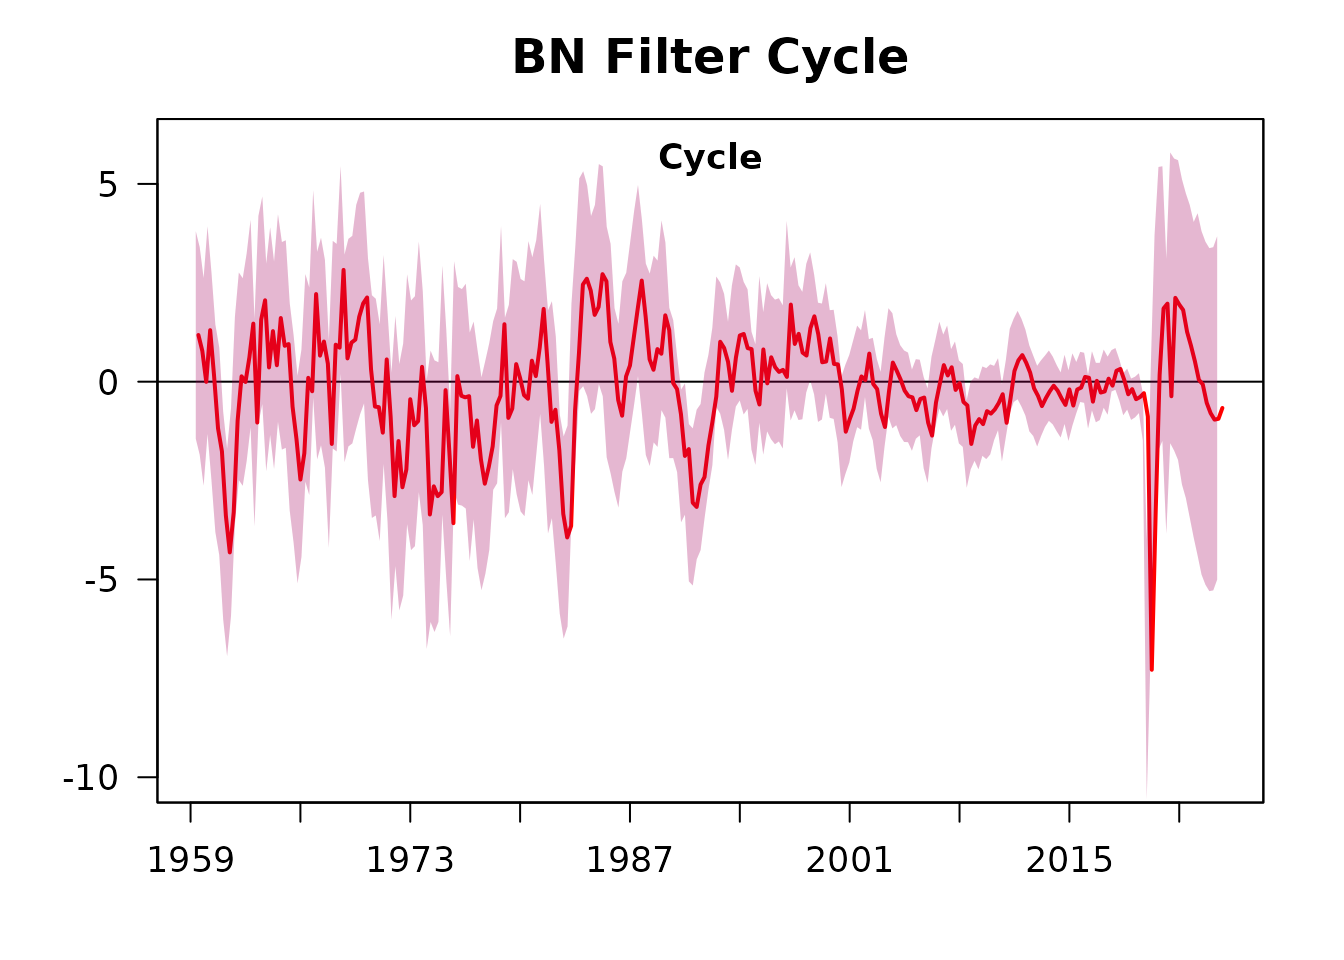
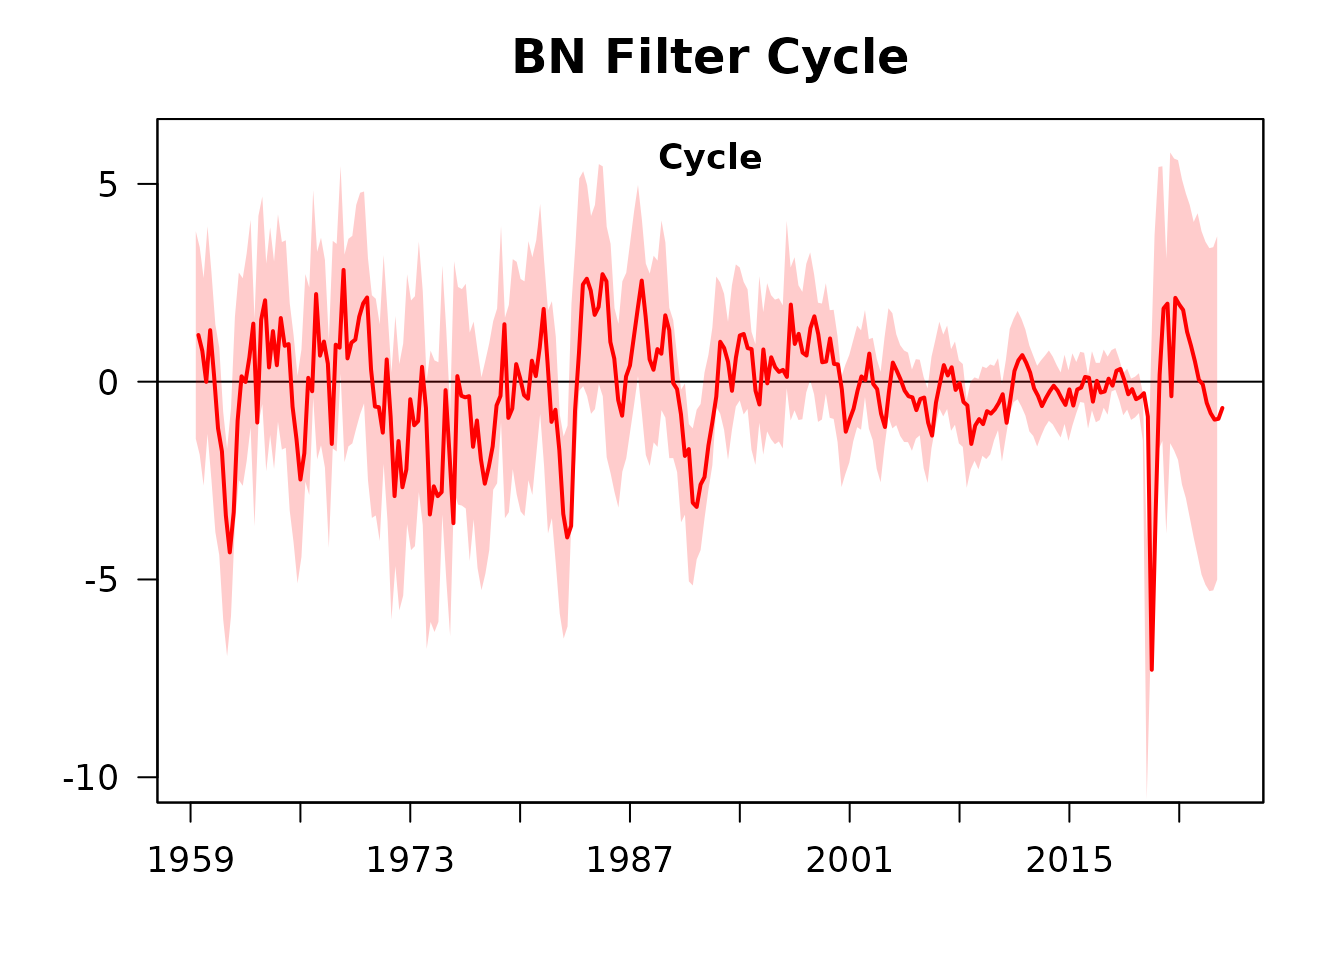
Deploying to gh-pages from @ kletts/bnfilter@9e066e45607ad2a09656d2ef6fafd3a0e7649de5 🚀

Changed region(s): [[0.125, 0.1562, 0.9062, 0.6875]]

diff --git a/articles/DNFilter-Australia.html b/articles/DNFilter-Australia.html
@@ -65,9 +65,18 @@
 
     
     
+<p>The package includes the latest Australian real/chain volume GDP and
+the Unemployment Rate through to December quarter 2024.</p>
 <div class="sourceCode" id="cb1"><pre class="downlit sourceCode r">
 <code class="sourceCode R"><span><span class="kw"><a href="https://rdrr.io/r/base/library.html" class="external-link">library</a></span><span class="op">(</span><span class="va"><a href="https://kletts.github.io/bnfilter/">bnfilter</a></span><span class="op">)</span></span>
-<span><span class="fu"><a href="https://rdrr.io/r/base/load.html" class="external-link">load</a></span><span class="op">(</span><span class="st">"../../data/audata.rda"</span><span class="op">)</span></span></code></pre></div>
+<span><span class="fu"><a href="https://rdrr.io/r/utils/head.html" class="external-link">tail</a></span><span class="op">(</span><span class="va">audata</span><span class="op">)</span></span>
+<span><span class="co">#&gt;           date   UNRATE  GDPC1</span></span>
+<span><span class="co">#&gt; 257 2023-09-01 3.603829 649635</span></span>
+<span><span class="co">#&gt; 258 2023-12-01 3.972668 650218</span></span>
+<span><span class="co">#&gt; 259 2024-03-01 3.861293 651335</span></span>
+<span><span class="co">#&gt; 260 2024-06-01 4.067915 652593</span></span>
+<span><span class="co">#&gt; 261 2024-09-01 4.073059 654676</span></span>
+<span><span class="co">#&gt; 262 2024-12-01 3.971081 658495</span></span></code></pre></div>
 <p>Load the GDP data from the package dataset</p>
 <div class="sourceCode" id="cb2"><pre class="downlit sourceCode r">
 <code class="sourceCode R"><span><span class="va">gdp</span> <span class="op">&lt;-</span> <span class="fu"><a href="https://rdrr.io/r/stats/ts.html" class="external-link">ts</a></span><span class="op">(</span><span class="va">audata</span><span class="op">$</span><span class="va">GDPC1</span>, start<span class="op">=</span><span class="fu"><a href="https://rdrr.io/r/base/c.html" class="external-link">c</a></span><span class="op">(</span><span class="fl">1959</span>,<span class="fl">3</span><span class="op">)</span>, freq<span class="op">=</span><span class="fl">4</span><span class="op">)</span></span>
@@ -96,7 +105,7 @@
 <div class="sourceCode" id="cb6"><pre class="downlit sourceCode r">
 <code class="sourceCode R"><span><span class="fu"><a href="https://rdrr.io/r/graphics/plot.default.html" class="external-link">plot</a></span><span class="op">(</span><span class="fu"><a href="../reference/bnf.html">bnf</a></span><span class="op">(</span>y<span class="op">=</span><span class="va">y</span>, </span>
 <span>         demean<span class="op">=</span><span class="st">"dm"</span>, </span>
-<span>         adjusted_bands <span class="op">=</span> <span class="cn">TRUE</span><span class="op">)</span><span class="op">)</span></span>
+<span>         dynamic_bands <span class="op">=</span> <span class="cn">TRUE</span><span class="op">)</span><span class="op">)</span></span>
 <span><span class="co">#&gt; Warning in matrix(data = c(1, 2), nrow = 1, ncol = 1): data length differs from</span></span>
 <span><span class="co">#&gt; size of matrix: [2 != 1 x 1]</span></span></code></pre></div>
 <p><img src="DNFilter-Australia_files/figure-html/unnamed-chunk-6-1.png" width="672"></p>

diff --git a/articles/DNFilter-UnitedStates.html b/articles/DNFilter-UnitedStates.html
@@ -68,7 +68,10 @@
 <p>This example uses the updated US GDP dataset through to 2023 Q2.</p>
 <div class="sourceCode" id="cb1"><pre class="downlit sourceCode r">
 <code class="sourceCode R"><span><span class="kw"><a href="https://rdrr.io/r/base/library.html" class="external-link">library</a></span><span class="op">(</span><span class="va"><a href="https://kletts.github.io/bnfilter/">bnfilter</a></span><span class="op">)</span></span>
-<span><span class="fu"><a href="https://rdrr.io/r/base/load.html" class="external-link">load</a></span><span class="op">(</span><span class="st">"../../data/usgdp.rda"</span><span class="op">)</span></span></code></pre></div>
+<span><span class="fu"><a href="https://rdrr.io/r/utils/head.html" class="external-link">head</a></span><span class="op">(</span><span class="va">usgdp</span><span class="op">)</span></span>
+<span><span class="co">#&gt;          Qtr1     Qtr2     Qtr3     Qtr4</span></span>
+<span><span class="co">#&gt; 1947 2182.681 2176.892 2172.432 2206.452</span></span>
+<span><span class="co">#&gt; 1948 2239.682 2276.690</span></span></code></pre></div>
 <p>Take the log(usgdp) * 100.0</p>
 <div class="sourceCode" id="cb2"><pre class="downlit sourceCode r">
 <code class="sourceCode R"><span><span class="va">y</span> <span class="op">&lt;-</span> <span class="fu"><a href="../reference/transform_series.html">transform_series</a></span><span class="op">(</span>y<span class="op">=</span><span class="va">usgdp</span>, take_log<span class="op">=</span><span class="cn">TRUE</span>, pcode <span class="op">=</span> <span class="st">"p1"</span><span class="op">)</span> </span></code></pre></div>
